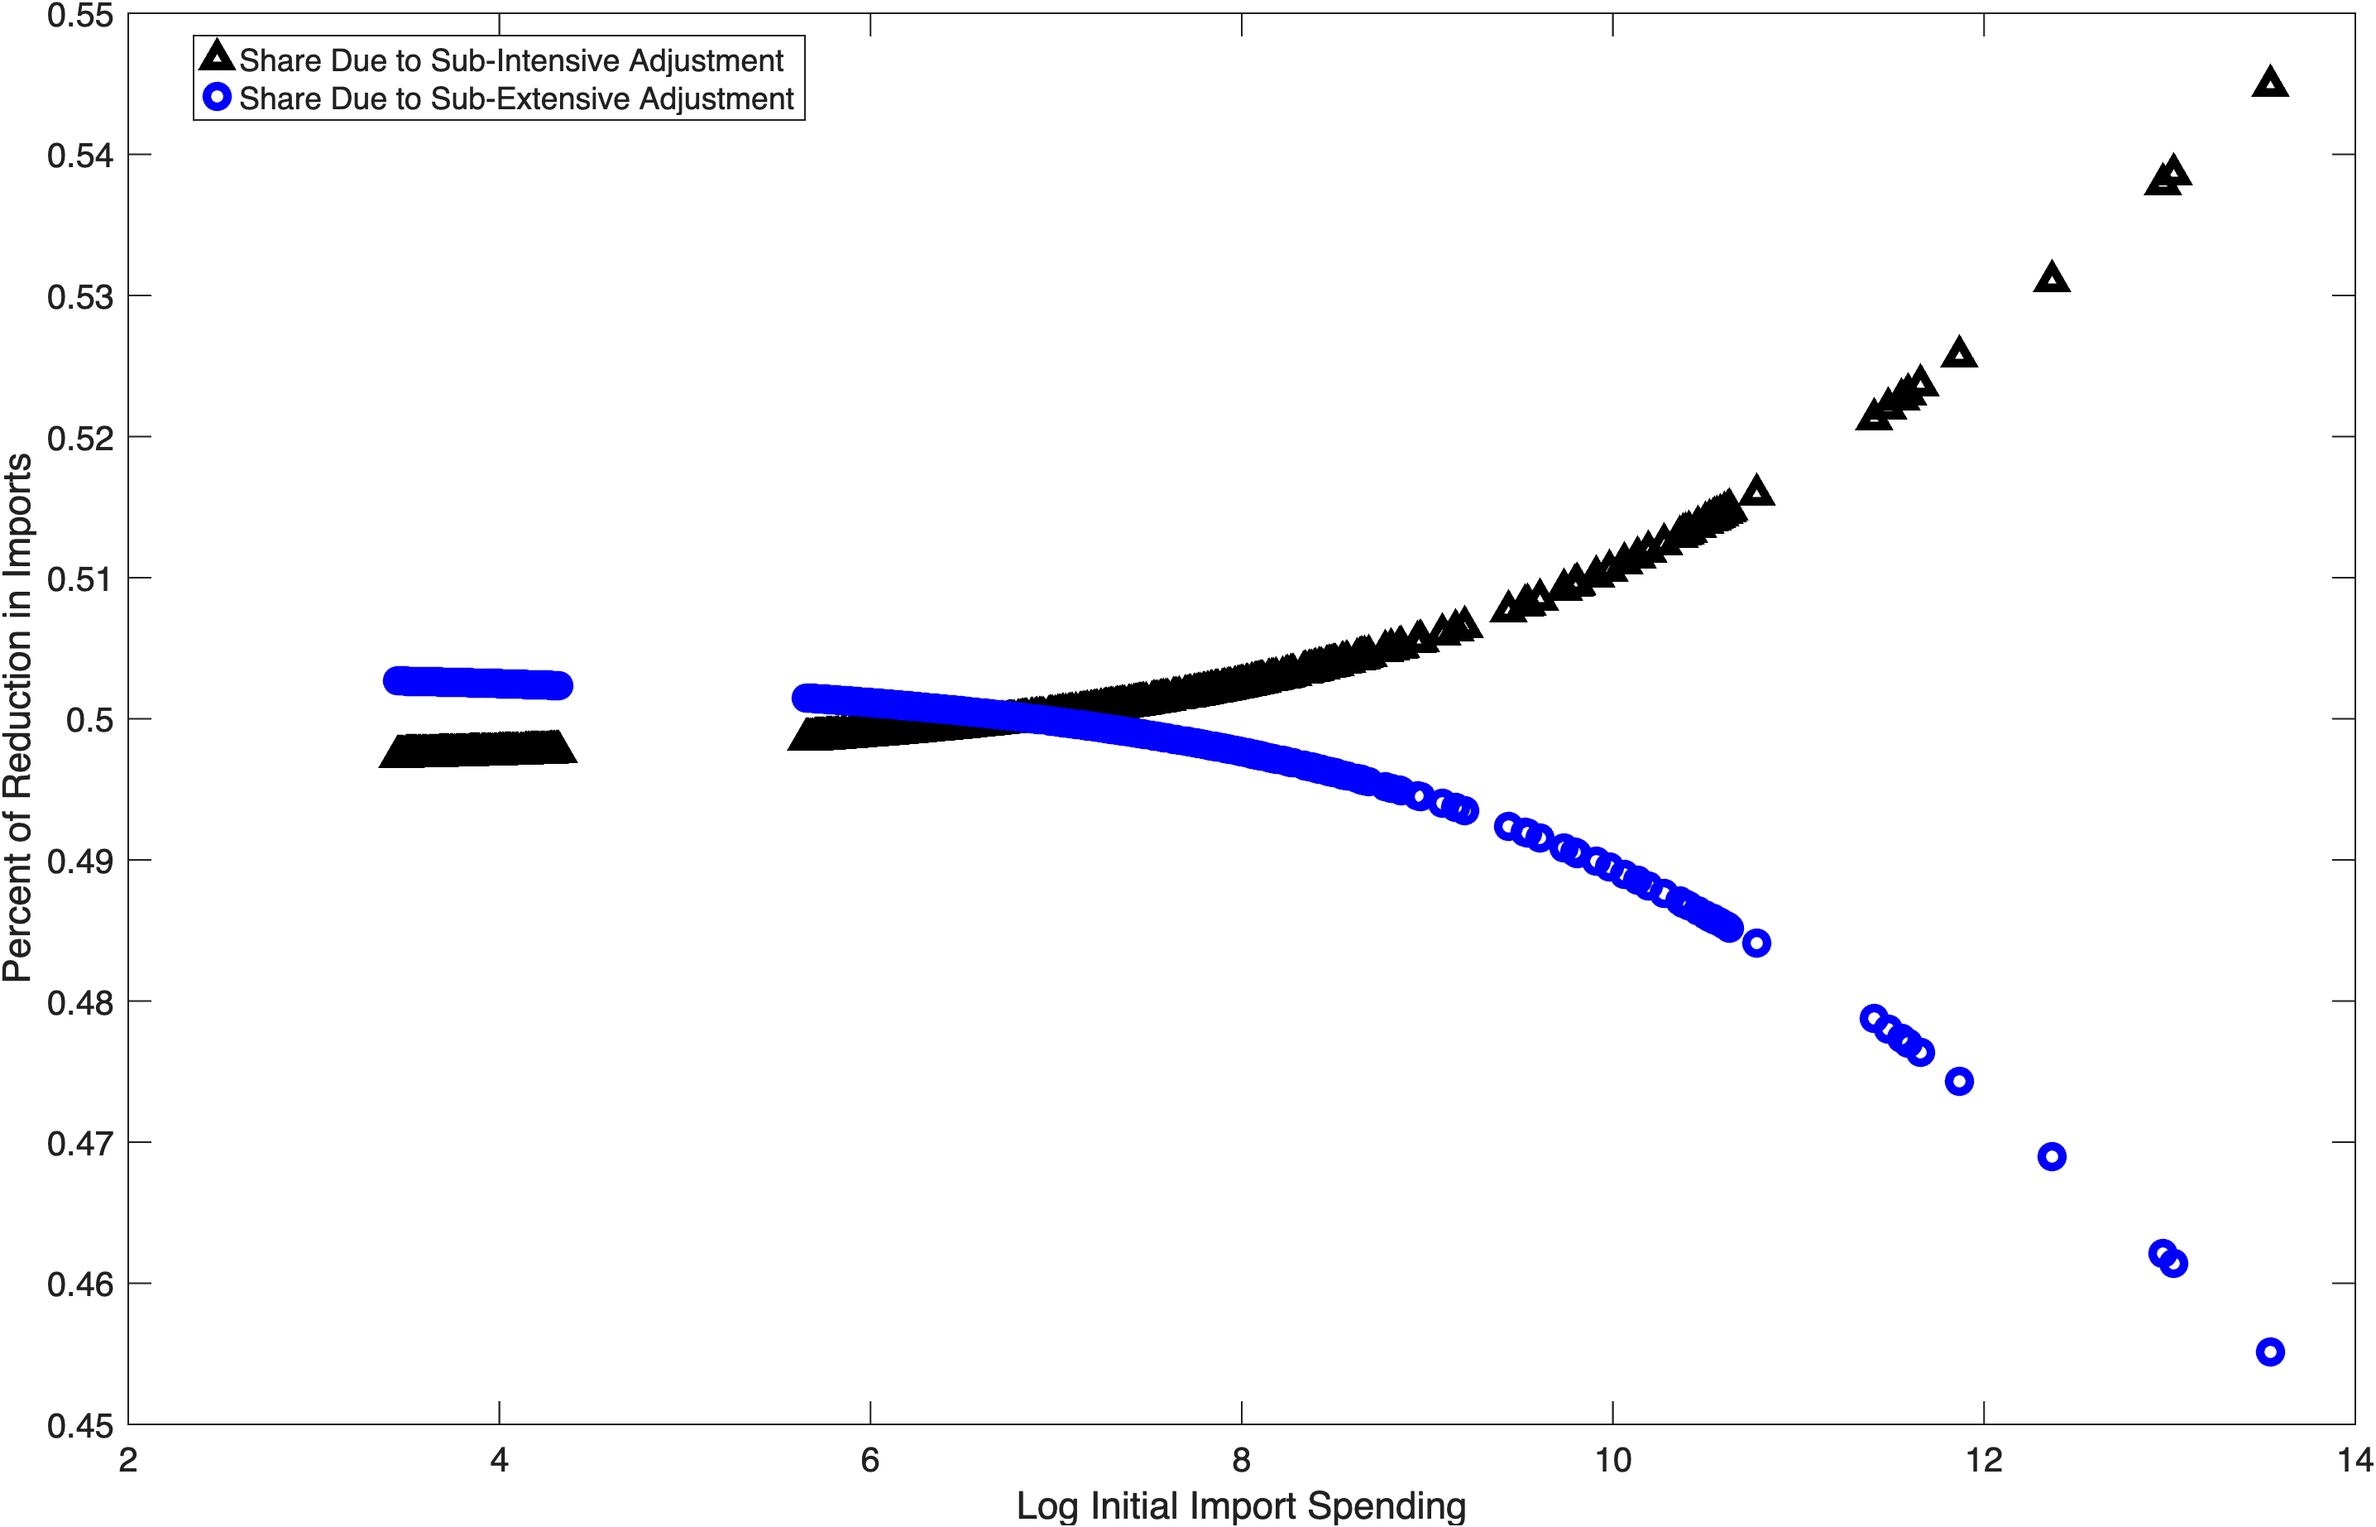
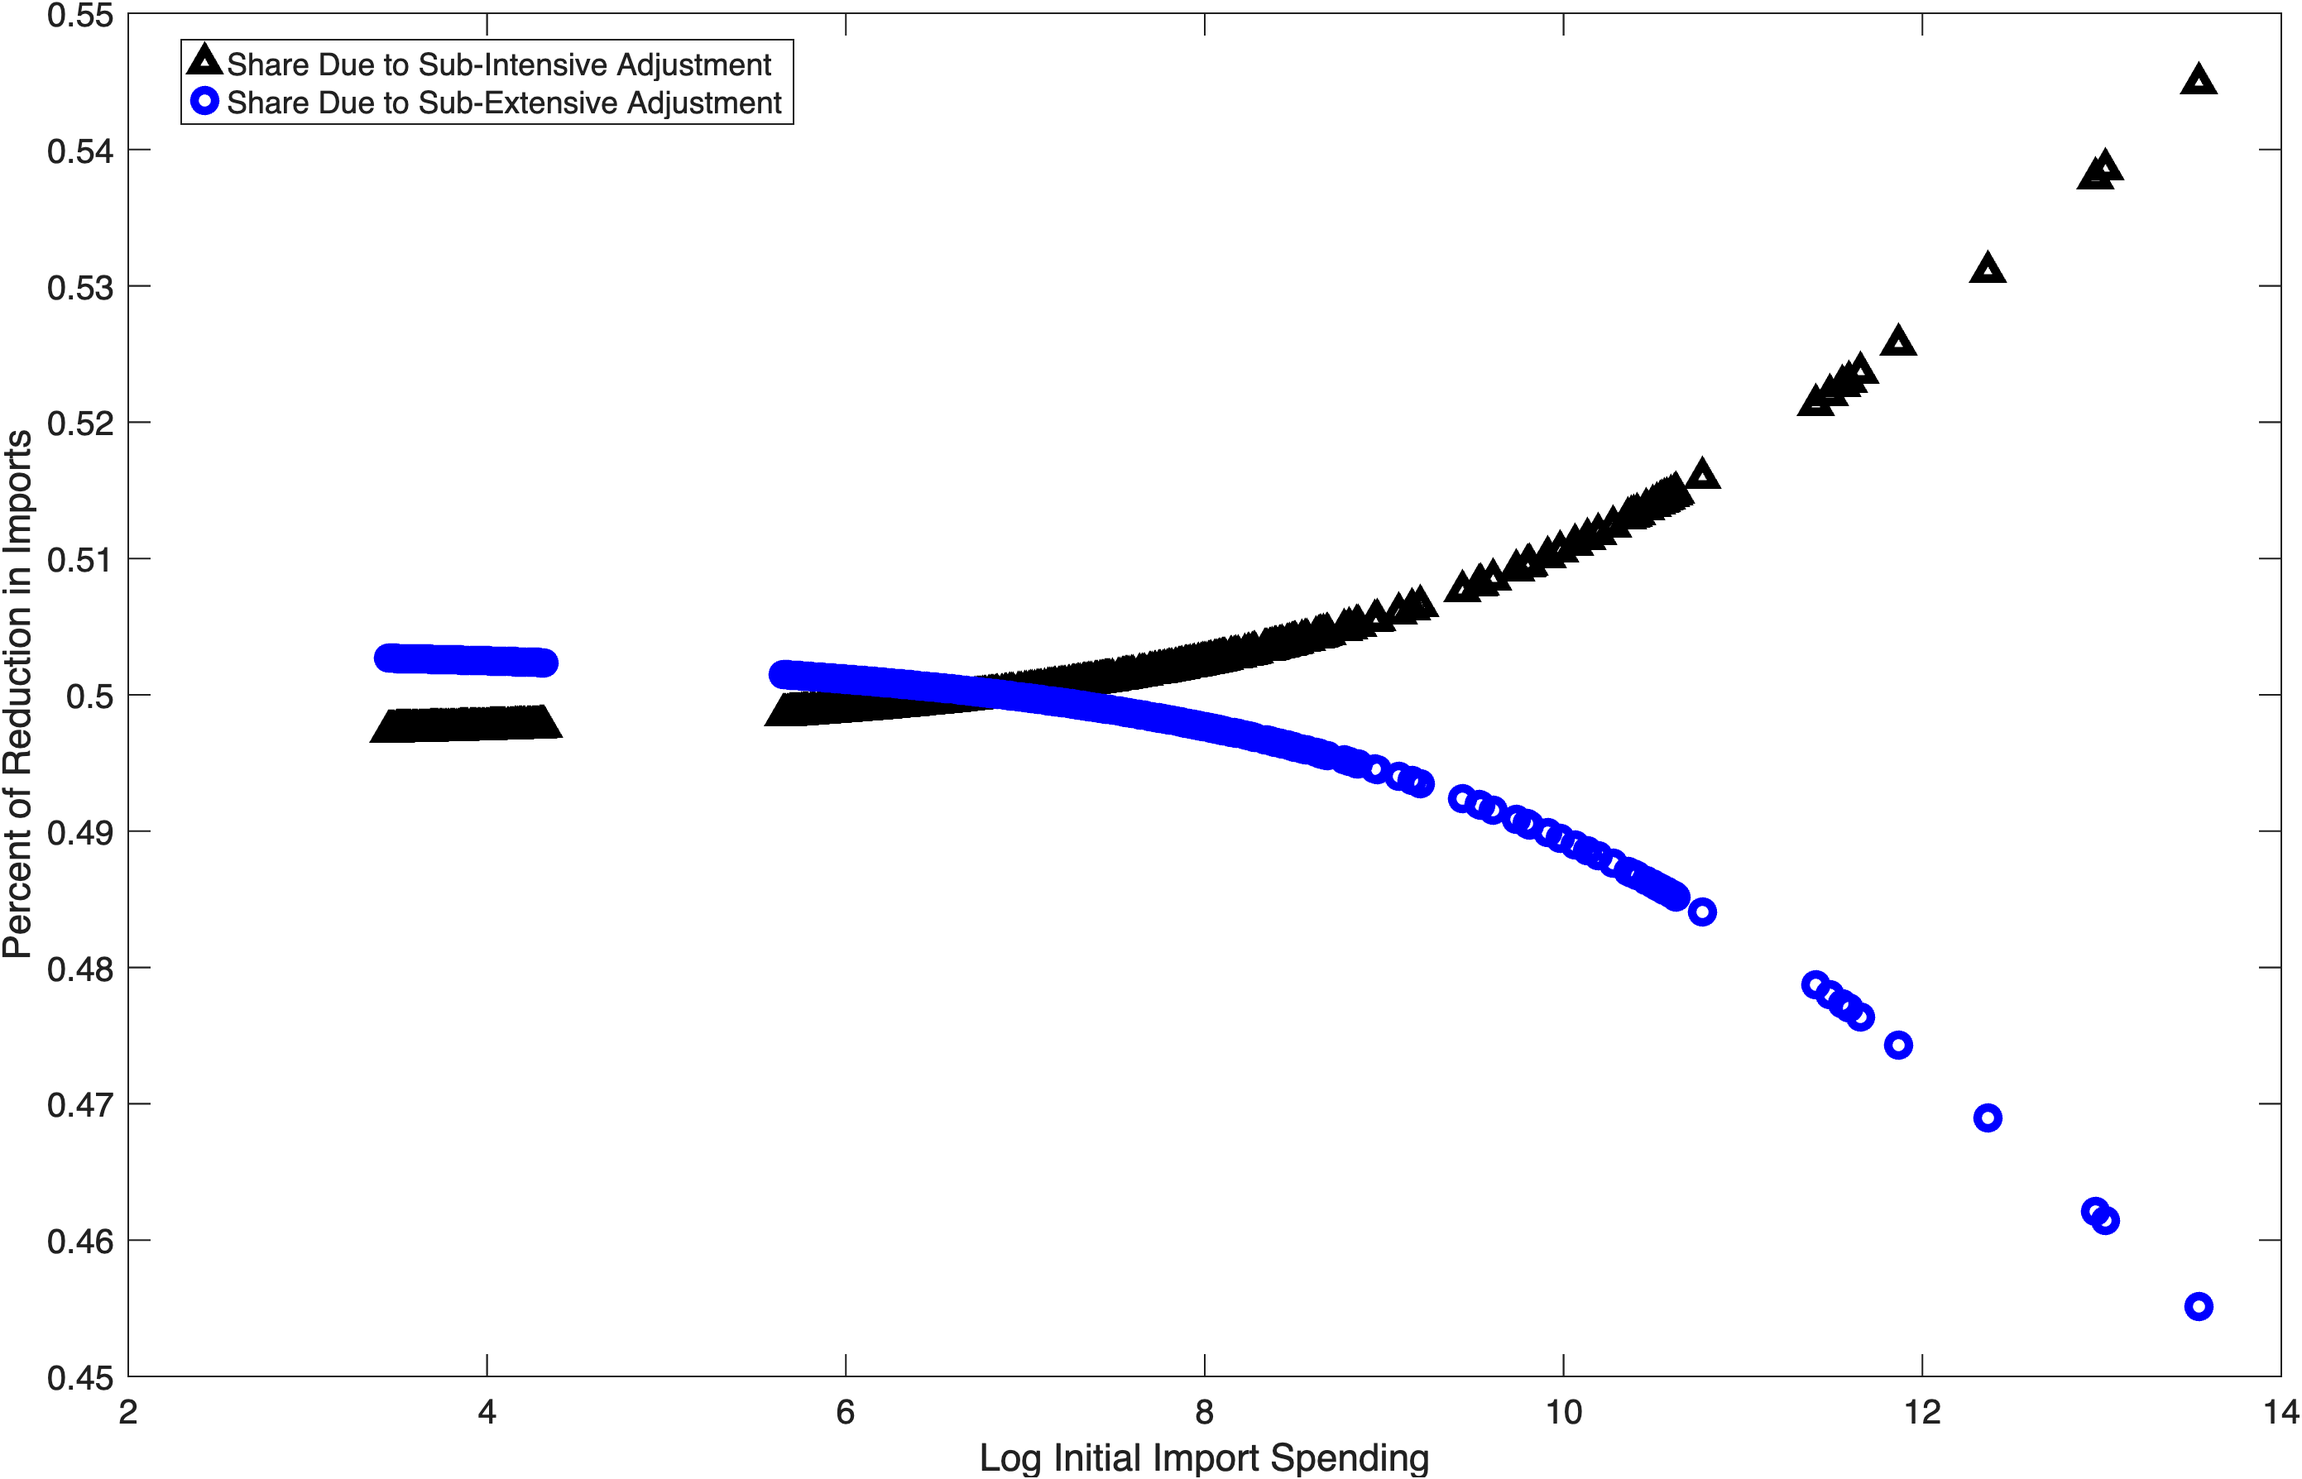
fix no-roundabout; all match papers result

diff --git a/Main.m b/Main.m
@@ -83,31 +83,6 @@ for k = 1:numel(figs)
 end
 
 %%
-
-
-%%%%%%%%%%%%%%%%%%%% NO ROUNDABOUT PRODUCTION %%%%%%%%%%%%%%%%%%%%%%
-fprintf('\n Performing "No Roundabout Prod." Simulation')
-
-run('Initialization.m');            % <— resets all globals (Omega,p,y,...)
-load('productivities.mat','A');     % keep A identical across scenarios
-A = repmat(A,1,simnum);
-
-for state = 1:simnum
-    pm_scale = 1 + (state-1)*simstep;
-    SimFunction_no_roundabout(pm_scale, state);
-end
-
-fprintf('\n No roundabout analysis DONE ✅\n');
-
-% calculate productivity
-[dlnPR3,Feenstra3,dlnPRtilde3] = calc_PR();
-
-fprintf('\n No roundabout: productivity change is %.6f\n', dlnPR3);
-fprintf('\n No roundabout: Feenstra variety effect is %.6f\n', Feenstra3);
-fprintf('\n No roundabout: mismeasured productivity change is %.6f\n', dlnPRtilde3);
-
-
-%%
 %%%%%%%%%%%%%%%%%%%% NO FIXED COSTS %%%%%%%%%%%%%%%%%%%%%%%%%%%%%%%%
 
 fprintf('\n Performing "No Fixed Costs" Simulation')
@@ -116,10 +91,16 @@ run('Initialization.m');            % <— resets all globals (Omega,p,y,...)
 load('productivities.mat','A');     % keep A identical across scenarios
 A = repmat(A,1,simnum);
 
-P_N = 0.96;                     % non-tradable goods price index
-f_v = 0;                   % fixed cost per variety import
-f_e = 0;                        % fixed cost exporting
-init_pm = 1.6976;               % initial foreign prices
+% % control
+% P_N = 0.96;                     % non-tradable goods price index
+% f_v = 0;                   % fixed cost per variety import
+% f_e = 0;                        % fixed cost exporting
+% init_pm = 1.6976;               % initial foreign prices
+
+% paper's replication file:
+P_N = 0.965;
+f_v = 0;
+init_pm = 3.82;
 
 
 for state = 1:simnum
@@ -135,4 +116,37 @@ fprintf('\n No fixed costs analysis DONE ✅\n');
 fprintf('\n No fixed costs: productivity change is %.6f\n', dlnPR2);
 fprintf('\n No fixed costs: Feenstra variety effect is %.6f\n', Feenstra2);
 fprintf('\n No fixed costs: mismeasured productivity change is %.6f\n', dlnPRtilde2);
+
+
+
+%%
+
+
+%%%%%%%%%%%%%%%%%%%% NO ROUNDABOUT PRODUCTION %%%%%%%%%%%%%%%%%%%%%%
+fprintf('\n Performing "No Roundabout Prod." Simulation')
+
+run('Initialization.m');            % <— resets all globals (Omega,p,y,...)
+load('productivities.mat','A');     % keep A identical across scenarios
+A = repmat(A,1,simnum);
+
+%   INITIALIZE ECONOMIC VALUES
+P_N = 0.96;                     % non-tradable goods price index
+f_v = 0.0075;                   % fixed cost per variety import
+f_e = 0;                        % fixed cost exporting
+init_pm = 1.6976;               % initial foreign prices
+
+for state = 1:simnum
+    pm_scale = 1 + (state-1)*simstep;
+    SimFunction_no_roundabout(pm_scale, state);
+end
+
+fprintf('\n No roundabout analysis DONE ✅\n');
+
+% calculate productivity
+[dlnPR3,Feenstra3,dlnPRtilde3] = calc_PR();
+
+fprintf('\n No roundabout: productivity change is %.6f\n', dlnPR3);
+fprintf('\n No roundabout: Feenstra variety effect is %.6f\n', Feenstra3);
+fprintf('\n No roundabout: mismeasured productivity change is %.6f\n', dlnPRtilde3);
+
 

diff --git a/SimFunction_no_roundabout.m b/SimFunction_no_roundabout.m
@@ -13,7 +13,12 @@ omega_state = Omega(:, state);
 P_v = alpha^-alpha*(1-alpha)^-(1-alpha)*r^alpha*w^(1-alpha);        
 h   = mu^-mu*(1-mu)^-(1-mu)*P_v^(1-mu);                               
 pm_state   = pm_scale * init_pm;                                        
-P_Z_state  = sum(p_state.^(theta/(theta-1)))^((theta-1)/theta);         
+
+% Shut down the roundabout update of P_Z
+%P_Z_state  = sum(p_state.^(theta/(theta-1)))^((theta-1)/theta); 
+
+PZ_CONST = 0.221669;
+P_Z_state = PZ_CONST;   % scalar
 
 omegachange = 1e8;                                                  
 it_num1=0;  
@@ -30,9 +35,9 @@ while (omegachange > tol1 && it_num1 < maxiter1)
         it_num2 = it_num2 + 1;
 
         p_new_state  = epsilon/(epsilon-1)*h*P_X_state.^mu./A_state;                             
-        P_Z_new_state= sum(p_new_state.^(theta/(theta-1))).^((theta-1)/theta);             
-        P_X_new_state= (P_Z_new_state.^(rho/(rho-1))+(P_M_state).^(rho/(rho-1))).^((rho-1)/rho); 
-        P_Z_state    = P_Z_new_state;
+        % P_Z_new_state= sum(p_new_state.^(theta/(theta-1))).^((theta-1)/theta);             
+        P_X_new_state= (P_Z_state.^(rho/(rho-1))+(P_M_state).^(rho/(rho-1))).^((rho-1)/rho); 
+        % P_Z_state    = P_Z_new_state;
         P_X_state    = P_X_new_state;
 
         it_err1 = max(abs(log(p_new_state./p_state)));                                     
@@ -71,16 +76,14 @@ while (omegachange > tol1 && it_num1 < maxiter1)
 end
 
 if it_num1==maxiter1 
-    display('ERROR, NOT CONVERGING!')
-    display('Press Control-C to Break Program and Start Again')
+    fprintf('ERROR, NOT CONVERGING!')
+    fprintf('Press Control-C to Break Program and Start Again')
     pause;
 end
 
 C_N_state = (P_N/((1-tr_weight)*P_state))^-(1/(1-eta))*C;
 z_state = 123456789*ones(size(y_state-g_state));                                                                            
  
-
-
 % write back to data structure
 % firm
 A(:,state)      = A_state;

diff --git a/SimFunction.m b/SimFunction.m
@@ -1,7 +1,7 @@
 function SimFunction(pm_scale, state)
 
-global tr_weight theta sigma epsilon alpha mu rho eta beta lambda w r C ...
-       h P_N init_pm tol1 tol2 maxiter1 maxiter2 omega_max kappa
+global tr_weight theta sigma epsilon alpha mu rho eta lambda w r C ...
+       h P_N init_pm tol1 tol2 maxiter1 maxiter2 omega_max 
 global nf simnum
 global A Omega p y g z gamma P_X P_M P_Z P_G P C_N G pm
 
@@ -13,6 +13,7 @@ omega_state = Omega(:, state);
 P_v = alpha^-alpha*(1-alpha)^-(1-alpha)*r^alpha*w^(1-alpha);        
 h   = mu^-mu*(1-mu)^-(1-mu)*P_v^(1-mu);                               
 pm_state   = pm_scale * init_pm;                                        
+
 P_Z_state  = sum(p_state.^(theta/(theta-1)))^((theta-1)/theta);         
 
 omegachange = 1e8;                                                  
@@ -95,8 +96,8 @@ while (omegachange > tol1 && it_num1 < maxiter1)
 end
 
 if it_num1==maxiter1 
-    display('ERROR, NOT CONVERGING!')
-    display('Press Control-C to Break Program and Start Again')
+    fprintf('ERROR, NOT CONVERGING!')
+    fprintf('Press Control-C to Break Program and Start Again')
     pause;
 end
 
